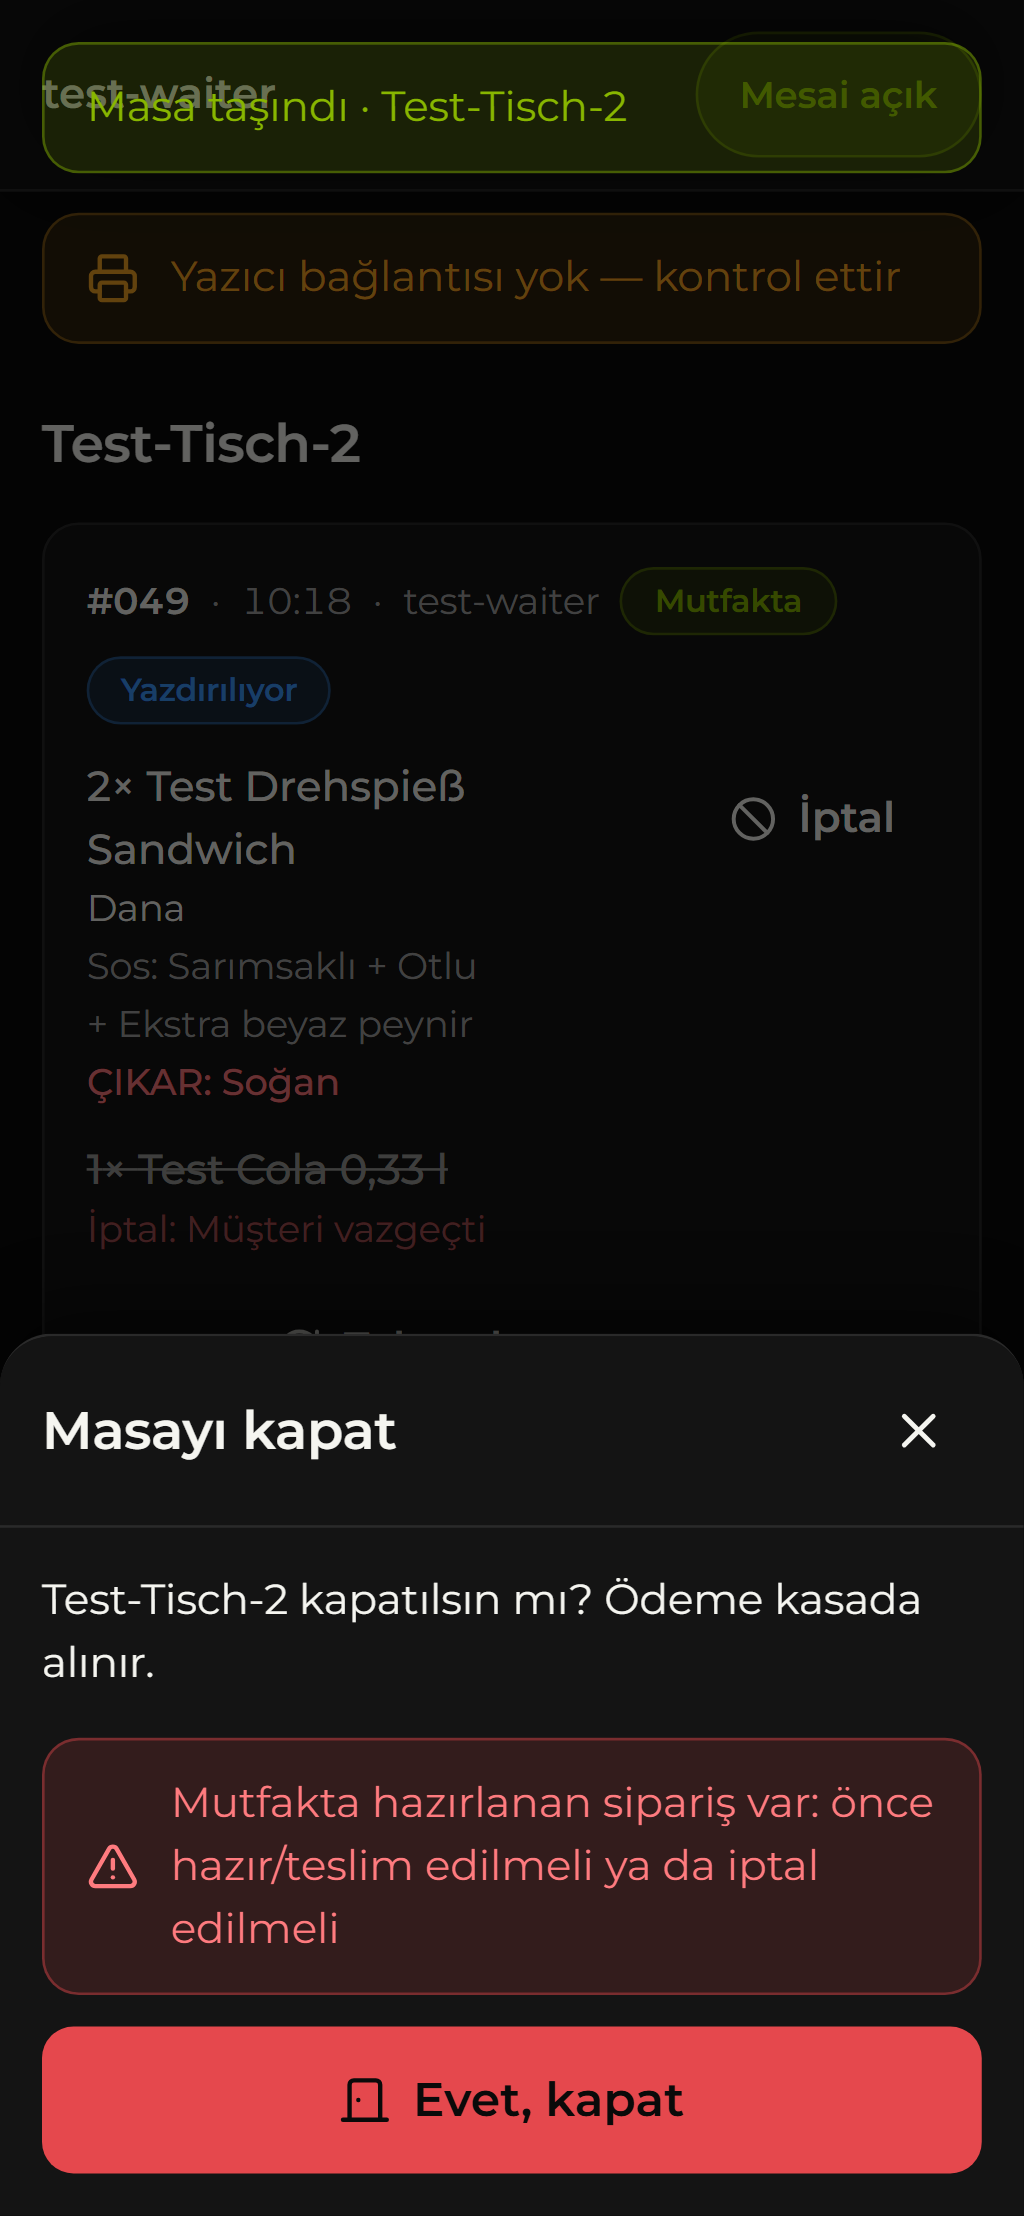
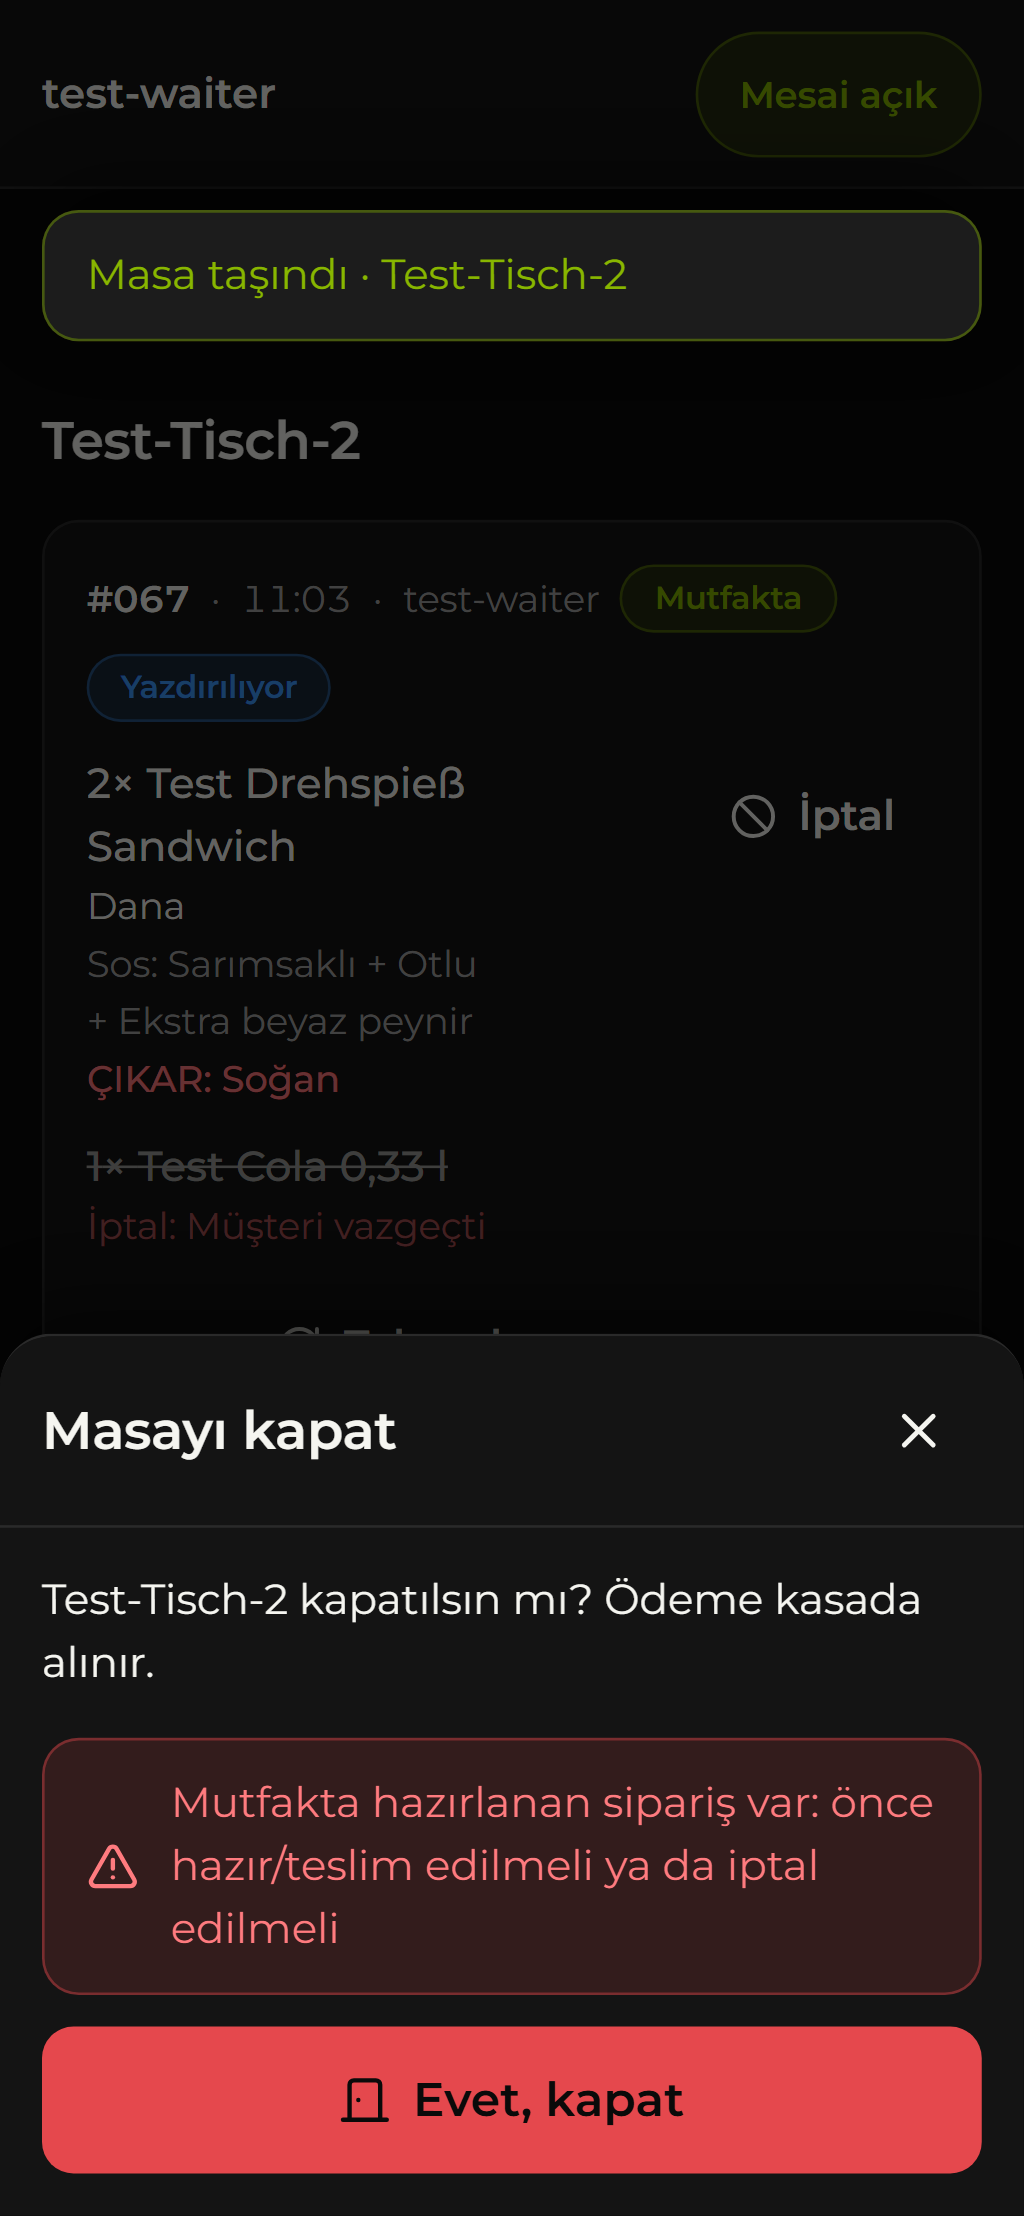
docs(screenshots): M3 görüntüleri R81 sonrası yenilendi; taşıma seçimi geçiş bitince çekiliyor
Toast artık ne panelin ana eylemini ne de sayfa başlığını örtüyor: beş etkilenen
görüntüde (cart, offline, confirm, move, close-blocked) başlık tam okunur ve toast
opak zeminde başlığın altında duruyor. Akışın ürettiği diğer altı görüntü de aynı
koşuda yenilendi.

Yenileme sırasında m3-flow-move'da seçili masa hücresi seçili görünmüyordu: kod değil
zamanlama sorunu — hücrenin transition-colors'ı (150 ms) sürerken görüntü alınıyordu.
E2E'ye iki kendiliğinden yeniden denenen beklenti eklendi (sabit bekleme yok):
aria-pressed doğrulaması ve kenarlık renginin gerçekten lime olması. Yeni görüntüde
seçim lime kenarlık + lime metin + tint ile açıkça görünüyor.

tokens.css'teki --header-h yorumu KDS başlığının da aynı tokena bağlanmasına göre
güncellendi.

diff --git a/apps/web/e2e/waiter-flow.spec.ts b/apps/web/e2e/waiter-flow.spec.ts
@@ -130,7 +130,15 @@ test('garson uçtan uca: sepet → gönder → hesap → iptal → taşı → ka
     // 7b — masa taşıma: Test-Tisch → Test-Tisch-2
     await page.getByRole('button', { name: /^taşı$/i }).click();
     const moveSheet = page.getByRole('dialog');
-    await moveSheet.getByRole('button', { name: 'Test-Tisch-2', exact: true }).click();
+    const moveTarget = moveSheet.getByRole('button', { name: 'Test-Tisch-2', exact: true });
+    await moveTarget.click();
+    // Seçim görünür olmalı: onay düğmesi adı doğru olsa bile ızgarada hangi masanın seçildiği
+    // belli değilse garson yanlış masaya taşıdığını ancak fiş çıkınca anlar.
+    await expect(moveTarget).toHaveAttribute('aria-pressed', 'true');
+    // Seçim görsel olarak da tamamlanmalı: `transition-colors` 150 ms sürüyor ve görüntü o
+    // aradayken alınırsa hücre hâlâ seçilmemiş görünür (ilk çekimde tam bu olmuştu). Sabit
+    // bekleme yok — beklenti rengin gerçekten lime olmasına bağlı ve kendiliğinden yeniden dener.
+    await expect(moveTarget).toHaveCSS('border-color', 'rgb(136, 182, 0)');
     await page.screenshot({ path: SHOT('move') });
     await moveSheet.getByRole('button', { name: /masasına taşı/i }).click();
     await expect(page.getByRole('heading', { name: 'Test-Tisch-2' })).toBeVisible();

diff --git a/apps/web/src/styles/tokens.css b/apps/web/src/styles/tokens.css
@@ -39,9 +39,9 @@
   --tap-min: 48px;
   --tap-primary: 56px;
 
-  /* Sayfa başlığı yüksekliği (garson iskeleti ve sipariş girişi `sticky top-0` başlıkları).
-     R81 — toast panel açıkken üste taşınıyor; başlığın ÜSTÜNE binmemesi için aynı değerden
-     ofset alır. Değer yalnız burada durur: üç yer de `var(--header-h)` ile okur. */
+  /* Sayfa başlığı yüksekliği — garson iskeleti, sipariş girişi ve KDS'nin `sticky top-0`
+     başlıkları. R81 — toast panel açıkken üste taşınıyor; başlığın ÜSTÜNE binmemesi için aynı
+     değerden ofset alır. Değer yalnız burada durur, her başlık `var(--header-h)` ile okur. */
   --header-h: 4.5rem;
 
   --state-empty: var(--color-muted);
